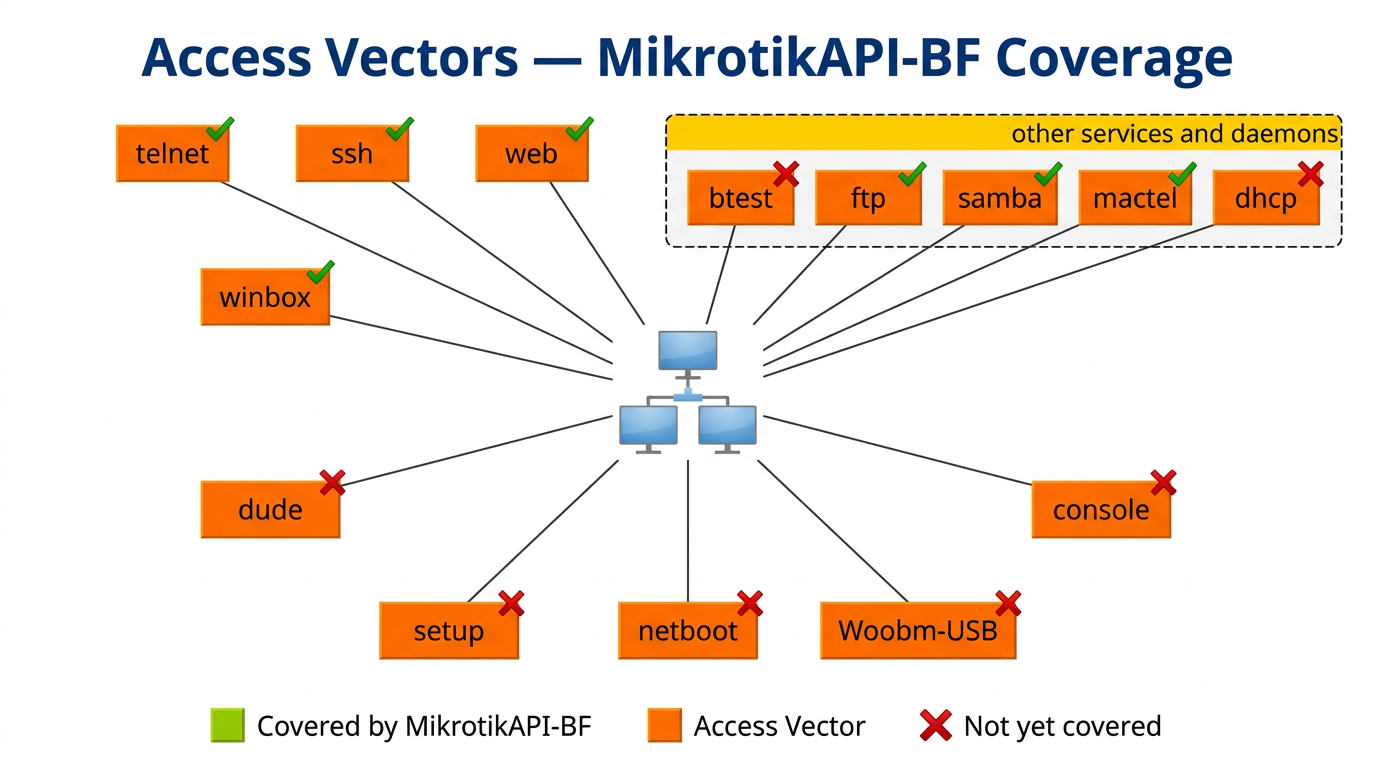
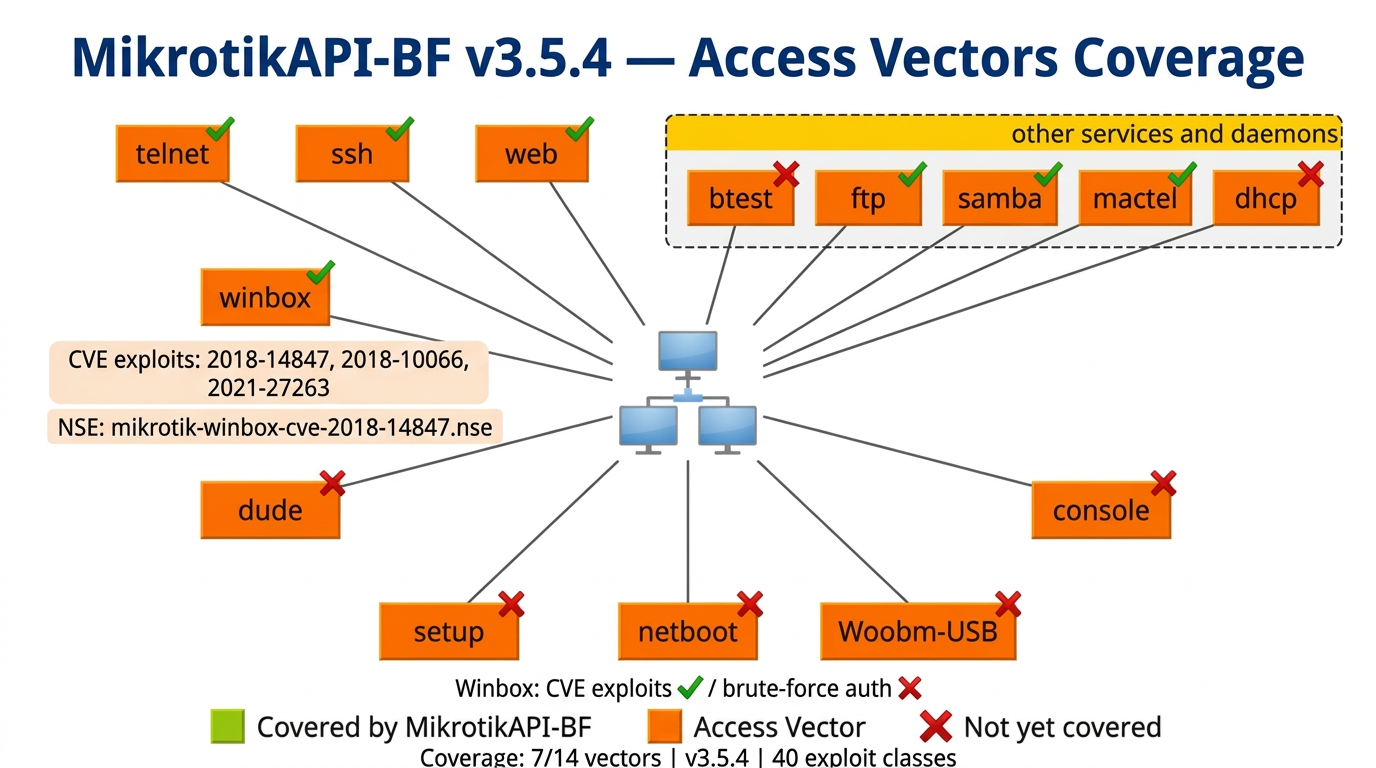
docs: v3.5.4 — README both languages, badges, version refs, What's New, attack surface images regenerated

diff --git a/README.md b/README.md
@@ -1,8 +1,8 @@
-# MikrotikAPI-BF v3.5.3
+# MikrotikAPI-BF v3.5.4
 
 [![Python Version](https://img.shields.io/badge/python-3.8%20%7C%203.9%20%7C%203.10%20%7C%203.11%20%7C%203.12-blue.svg)](https://www.python.org/downloads/)
 [![License](https://img.shields.io/badge/license-MIT-green.svg)](LICENSE)
-[![Version](https://img.shields.io/badge/version-3.5.3-red.svg)](https://github.com/mrhenrike/MikrotikAPI-BF/releases/tag/v3.5.3)
+[![Version](https://img.shields.io/badge/version-3.5.4-red.svg)](https://github.com/mrhenrike/MikrotikAPI-BF/releases/tag/v3.5.4)
 [![Platform](https://img.shields.io/badge/platform-Windows%20%7C%20Linux%20%7C%20macOS-lightgrey.svg)](README.md)
 [![Wiki](https://img.shields.io/badge/Wiki-GitHub-orange)](https://github.com/mrhenrike/MikrotikAPI-BF/wiki)
 [![PyPI](https://img.shields.io/badge/pip-mikrotikapi--bf-blue)](https://pypi.org/project/mikrotikapi-bf/)
@@ -52,7 +52,7 @@ Based on [mikrotik-tools](https://github.com/0ki/mikrotik-tools) by Kirils Solov
 - **`--decode-supout`** — list sections in `supout.rif` diagnostic files
 - **`--analyze-npk`** — NPK package analyzer (CVE-2019-3977 vector)
 
-### 🗺 Nmap NSE Scripts (v3.5.3+)
+### 🗺 Nmap NSE Scripts (v3.5.4+)
 Five Lua scripts in `nse/` for Nmap integration:
 - `mikrotik-routeros-version.nse` — fingerprint RouterOS from HTTP/API/Winbox
 - `mikrotik-api-brute.nse` — full API brute-force (6.x MD5 + 7.x plaintext auth)
@@ -147,7 +147,7 @@ nmap -p 8728 --script mikrotik-api-brute \
 
 ## 🗺 Attack Surface Mapping
 
-### Full Attack Surface — Coverage Status (v3.5.3)
+### Full Attack Surface — Coverage Status (v3.5.4)
 
 ![MikrotikAPI-BF Full Attack Surface Map](img/mikrotik_full_attack_surface.png)
 
@@ -322,7 +322,7 @@ nmap -p 8728 --script mikrotik-api-brute \
 ```
 MikrotikAPI-BF/
 ├── version.py                    # Canonical version source (edit to bump)
-├── mikrotikapi-bf.py             # Main entry point (v3.5.3)
+├── mikrotikapi-bf.py             # Main entry point (v3.5.4)
 ├── pyproject.toml                # pip package definition
 ├── requirements.txt
 ├── .env.example                  # Environment variable template (safe to commit)
@@ -330,7 +330,7 @@ MikrotikAPI-BF/
 ├── mikrotikapi_bf/               # pip installable package
 │   ├── __init__.py
 │   └── cli.py                    # Entry point for `mikrotikapi-bf` command
-├── nse/                          # Nmap NSE scripts (v3.5.3+)
+├── nse/                          # Nmap NSE scripts (v3.5.4+)
 │   ├── README.md
 │   ├── mikrotik-api-brute.nse
 │   ├── mikrotik-api-info.nse
@@ -346,7 +346,7 @@ MikrotikAPI-BF/
 │   ├── retry.py                  # Retry + backoff
 │   └── session.py                # Persistent session management
 ├── modules/                      # Feature modules
-│   ├── decoder.py                # RouterOS file decoder: user.dat/.backup/supout.rif (v3.5.0)
+│   ├── decoder.py                # RouterOS file decoder: user.dat/.backup/supout.rif (v3.5.4)
 │   ├── discovery.py              # Network discovery
 │   ├── fingerprint.py            # Device fingerprinting (Shodan + REST)
 │   ├── mac_server.py             # Layer-2 MNDP discovery + MAC-Telnet (v3.3.0)
@@ -357,7 +357,7 @@ MikrotikAPI-BF/
 ├── xpl/                          # Exploit/CVE engine
 │   ├── cve_db.py                 # CVE database (40 exploits)
 │   ├── exploits.py               # 40 exploit classes
-│   ├── npk_decoder.py            # NPK package analyzer (v3.5.0)
+│   ├── npk_decoder.py            # NPK package analyzer (v3.5.4)
 │   ├── nvd_shodan.py             # NVD API + Shodan integration
 │   └── scanner.py                # Vulnerability scanner
 ├── img/                          # Attack surface diagrams
@@ -421,8 +421,20 @@ add chain=input action=drop
 
 ## 📋 What's New
 
-### v3.5.3 (current)
-- **5 Nmap NSE scripts** in `nse/` — RouterOS version, API brute, default creds, info dump, Winbox CVE-2018-14847
+### v3.5.4 (current)
+- **NSE auto-installer** — `mikrotikapi_bf/nse_installer.py` copies NSE scripts to Nmap on Windows/Linux/macOS automatically during `pip install` or `pip install --upgrade`
+- **`--install-nse`** flag and `mikrotikapi-install-nse` entry point for manual NSE installation
+- **3 more official Nmap MikroTik scripts** bundled: `mikrotik-routeros-brute.nse`, `mikrotik-routeros-username-brute.nse`, `broadcast-mndp-discover.nse`
+- **300-thread support** — `--threads N` (up to 300) with mandatory `--high-threads` disclaimer for values > 15
+- **`setup.py` post-install hook** — NSE scripts installed automatically on pip install
+- **`pyproject.toml` fixed** — proper `setuptools.build_meta` backend; package builds and passes `twine check`
+- **GitHub Actions** — `.github/workflows/publish-pypi.yml` + `publish-testpypi.yml` with OIDC trusted publishing
+- **PyPI-ready** — `dist/mikrotikapi_bf-3.5.4-py3-none-any.whl` built and validated
+- **Printer NSE scripts** — collected in `dev/Printers/` (12 scripts: HP, Xerox, Lexmark, CUPS, PJL, SNMP)
+- **VINCE VUID 375660** — comprehensive technical update prepared: CVSS 9.8, CWE-307, PoC tool ref, Shodan Brazil scale (19,424 devices), expired 90-day deadline notice
+
+### v3.5.3
+- **5 Nmap NSE scripts** in `nse/`: `mikrotik-routeros-version`, `mikrotik-api-brute`, `mikrotik-default-creds`, `mikrotik-api-info`, `mikrotik-winbox-cve-2018-14847`
 - **pip install support** — `pyproject.toml` + `mikrotikapi_bf/` entry point package
 - **`mikrotikapi-bf --nse-path`** — prints installed NSE scripts directory for Nmap
 
@@ -434,7 +446,7 @@ add chain=input action=drop
 ### v3.5.1
 - Fix: syntax error in CVE-2025-6563 XSS payload
 - Credits & Acknowledgements section (13 contributors)
-- Comprehensive wiki guides en-US + pt-BR (40+ CLI flags)
+- Comprehensive wiki guides en-US + pt-BR (40+ CLI flags documented)
 
 ### v3.5.0
 - `modules/decoder.py` — Python 3 port of [mikrotik-tools](https://github.com/0ki/mikrotik-tools): `UserDatDecoder`, `BackupDecoder`, `SupoutDecoder`, `MTDatDecoder`
@@ -499,3 +511,4 @@ add chain=input action=drop
 - **Security reports:** See [SECURITY.md](SECURITY.md)
 
 Licensed under MIT — see [`LICENSE`](LICENSE).
+

diff --git a/README.pt-BR.md b/README.pt-BR.md
@@ -1,8 +1,8 @@
-# MikrotikAPI-BF v3.5.3 (pt-BR)
+# MikrotikAPI-BF v3.5.4 (pt-BR)
 
 [![Python Version](https://img.shields.io/badge/python-3.8%20%7C%203.9%20%7C%203.10%20%7C%203.11%20%7C%203.12-blue.svg)](https://www.python.org/downloads/)
 [![License](https://img.shields.io/badge/license-MIT-green.svg)](LICENSE)
-[![Version](https://img.shields.io/badge/version-3.5.3-red.svg)](https://github.com/mrhenrike/MikrotikAPI-BF/releases/tag/v3.5.3)
+[![Version](https://img.shields.io/badge/version-3.5.4-red.svg)](https://github.com/mrhenrike/MikrotikAPI-BF/releases/tag/v3.5.4)
 [![Platform](https://img.shields.io/badge/platform-Windows%20%7C%20Linux%20%7C%20macOS-lightgrey.svg)](README.md)
 [![Wiki](https://img.shields.io/badge/Wiki-GitHub-orange)](https://github.com/mrhenrike/MikrotikAPI-BF/wiki)
 [![PyPI](https://img.shields.io/badge/pip-mikrotikapi--bf-blue)](https://pypi.org/project/mikrotikapi-bf/)
@@ -51,7 +51,7 @@
 - **`--decode-supout`** — lista seções em `supout.rif`
 - **`--analyze-npk`** — analisador de pacotes NPK (vetor CVE-2019-3977)
 
-### 🗺 Scripts Nmap NSE (v3.5.3+)
+### 🗺 Scripts Nmap NSE (v3.5.4+)
 - `mikrotik-routeros-version.nse` — fingerprint RouterOS via HTTP/API/Winbox
 - `mikrotik-api-brute.nse` — força bruta completa da API (auth 6.x MD5 + 7.x plaintext)
 - `mikrotik-default-creds.nse` — testa credenciais padrão/vazias
@@ -129,7 +129,7 @@ nmap -p 8291 --script mikrotik-winbox-cve-2018-14847 192.168.1.1
 
 ## 🗺 Mapeamento de Superfície de Ataque
 
-### Superfície Completa — Status de Cobertura (v3.5.3)
+### Superfície Completa — Status de Cobertura (v3.5.4)
 
 ![Mapa Completo da Superfície de Ataque MikrotikAPI-BF](img/mikrotik_full_attack_surface.png)
 
@@ -197,3 +197,4 @@ Consulte a [tabela completa de flags](README.md#-cli-reference-all-flags) no REA
 
 Licenciado sob MIT — ver [`LICENSE`](LICENSE).  
 **Autor:** André Henrique ([@mrhenrike](https://github.com/mrhenrike)) · LinkedIn/X: `@mrhenrike`
+
